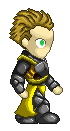
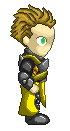
Fixed code

diff --git a/IsoWorld/IsoWorld/Scenes/Game/Hero.swift b/IsoWorld/IsoWorld/Scenes/Game/Hero.swift
@@ -19,12 +19,12 @@ class Hero {
 
   lazy var walkAction: SKAction = {
     var textures: [SKTexture] = []
-    for i in 0...1 {
+    for i in 0...3 {
       let texture = SKTexture(imageNamed: "human\(i + 1).png")
       textures.append(texture)
     }
 
-    let action = SKAction.animateWithTextures(textures, timePerFrame: 0.15, resize: true, restore: true)
+    let action = SKAction.animateWithTextures(textures, timePerFrame: 0.3, resize: true, restore: true)
 
     return SKAction.repeatActionForever(action)
   }()
